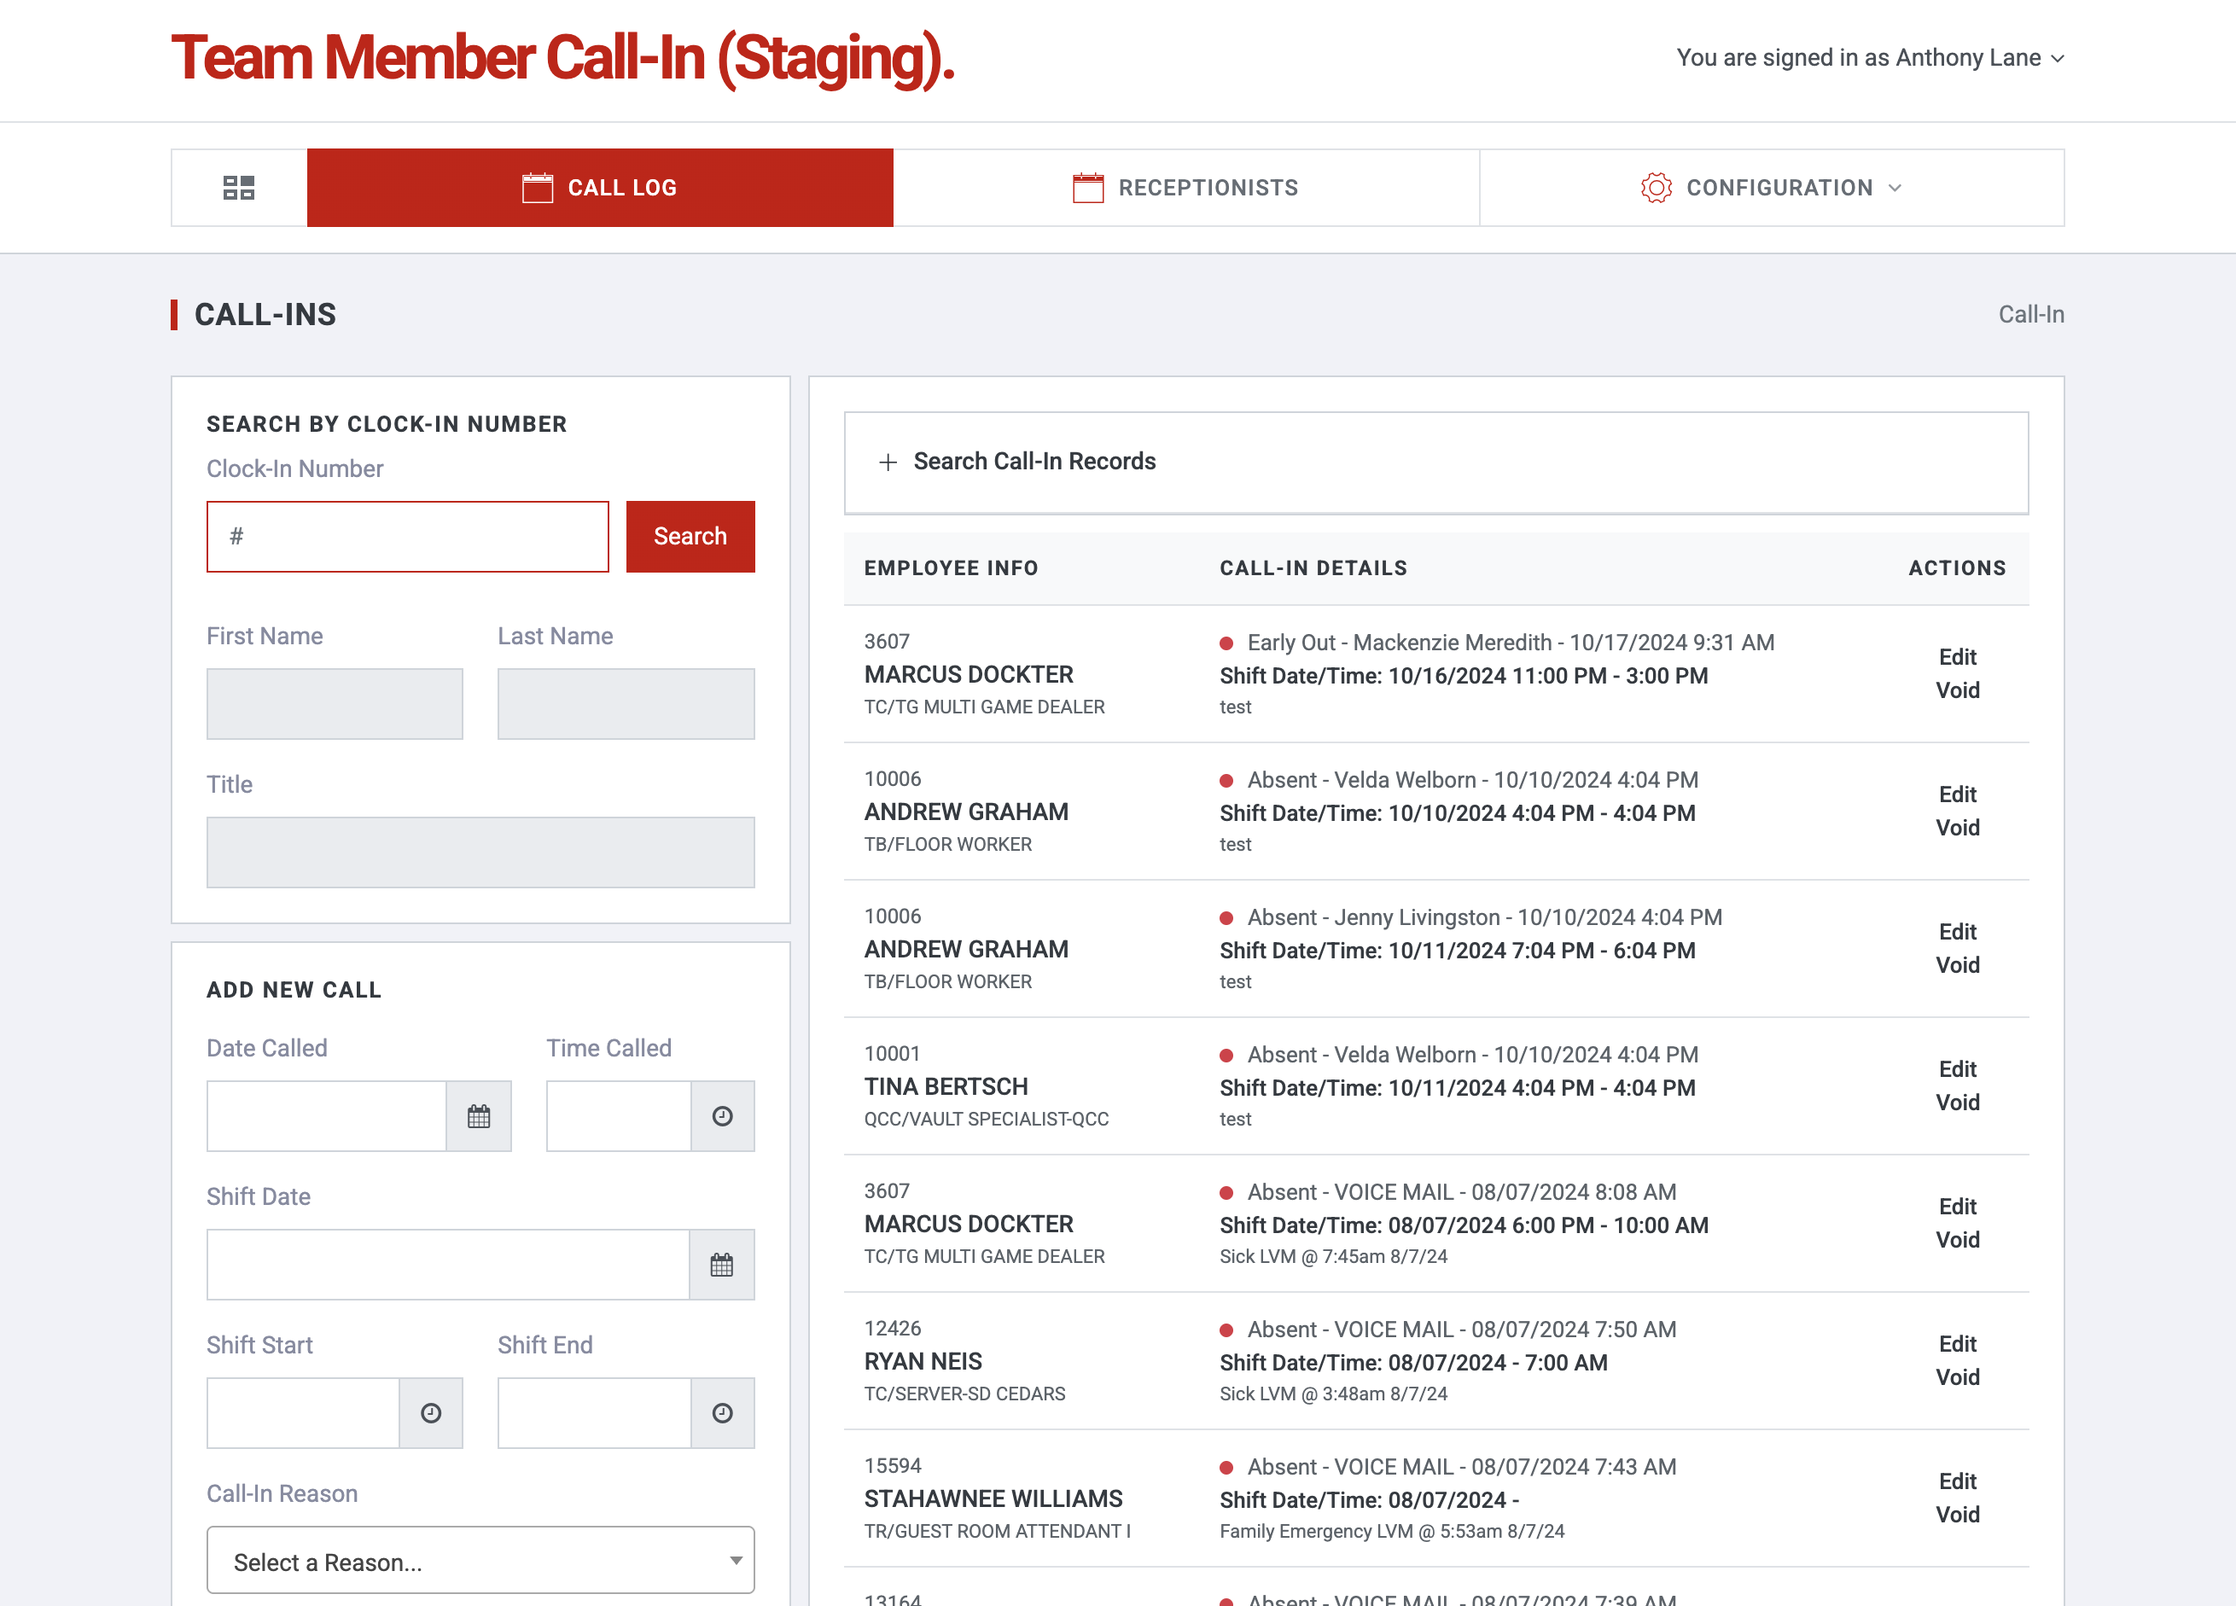
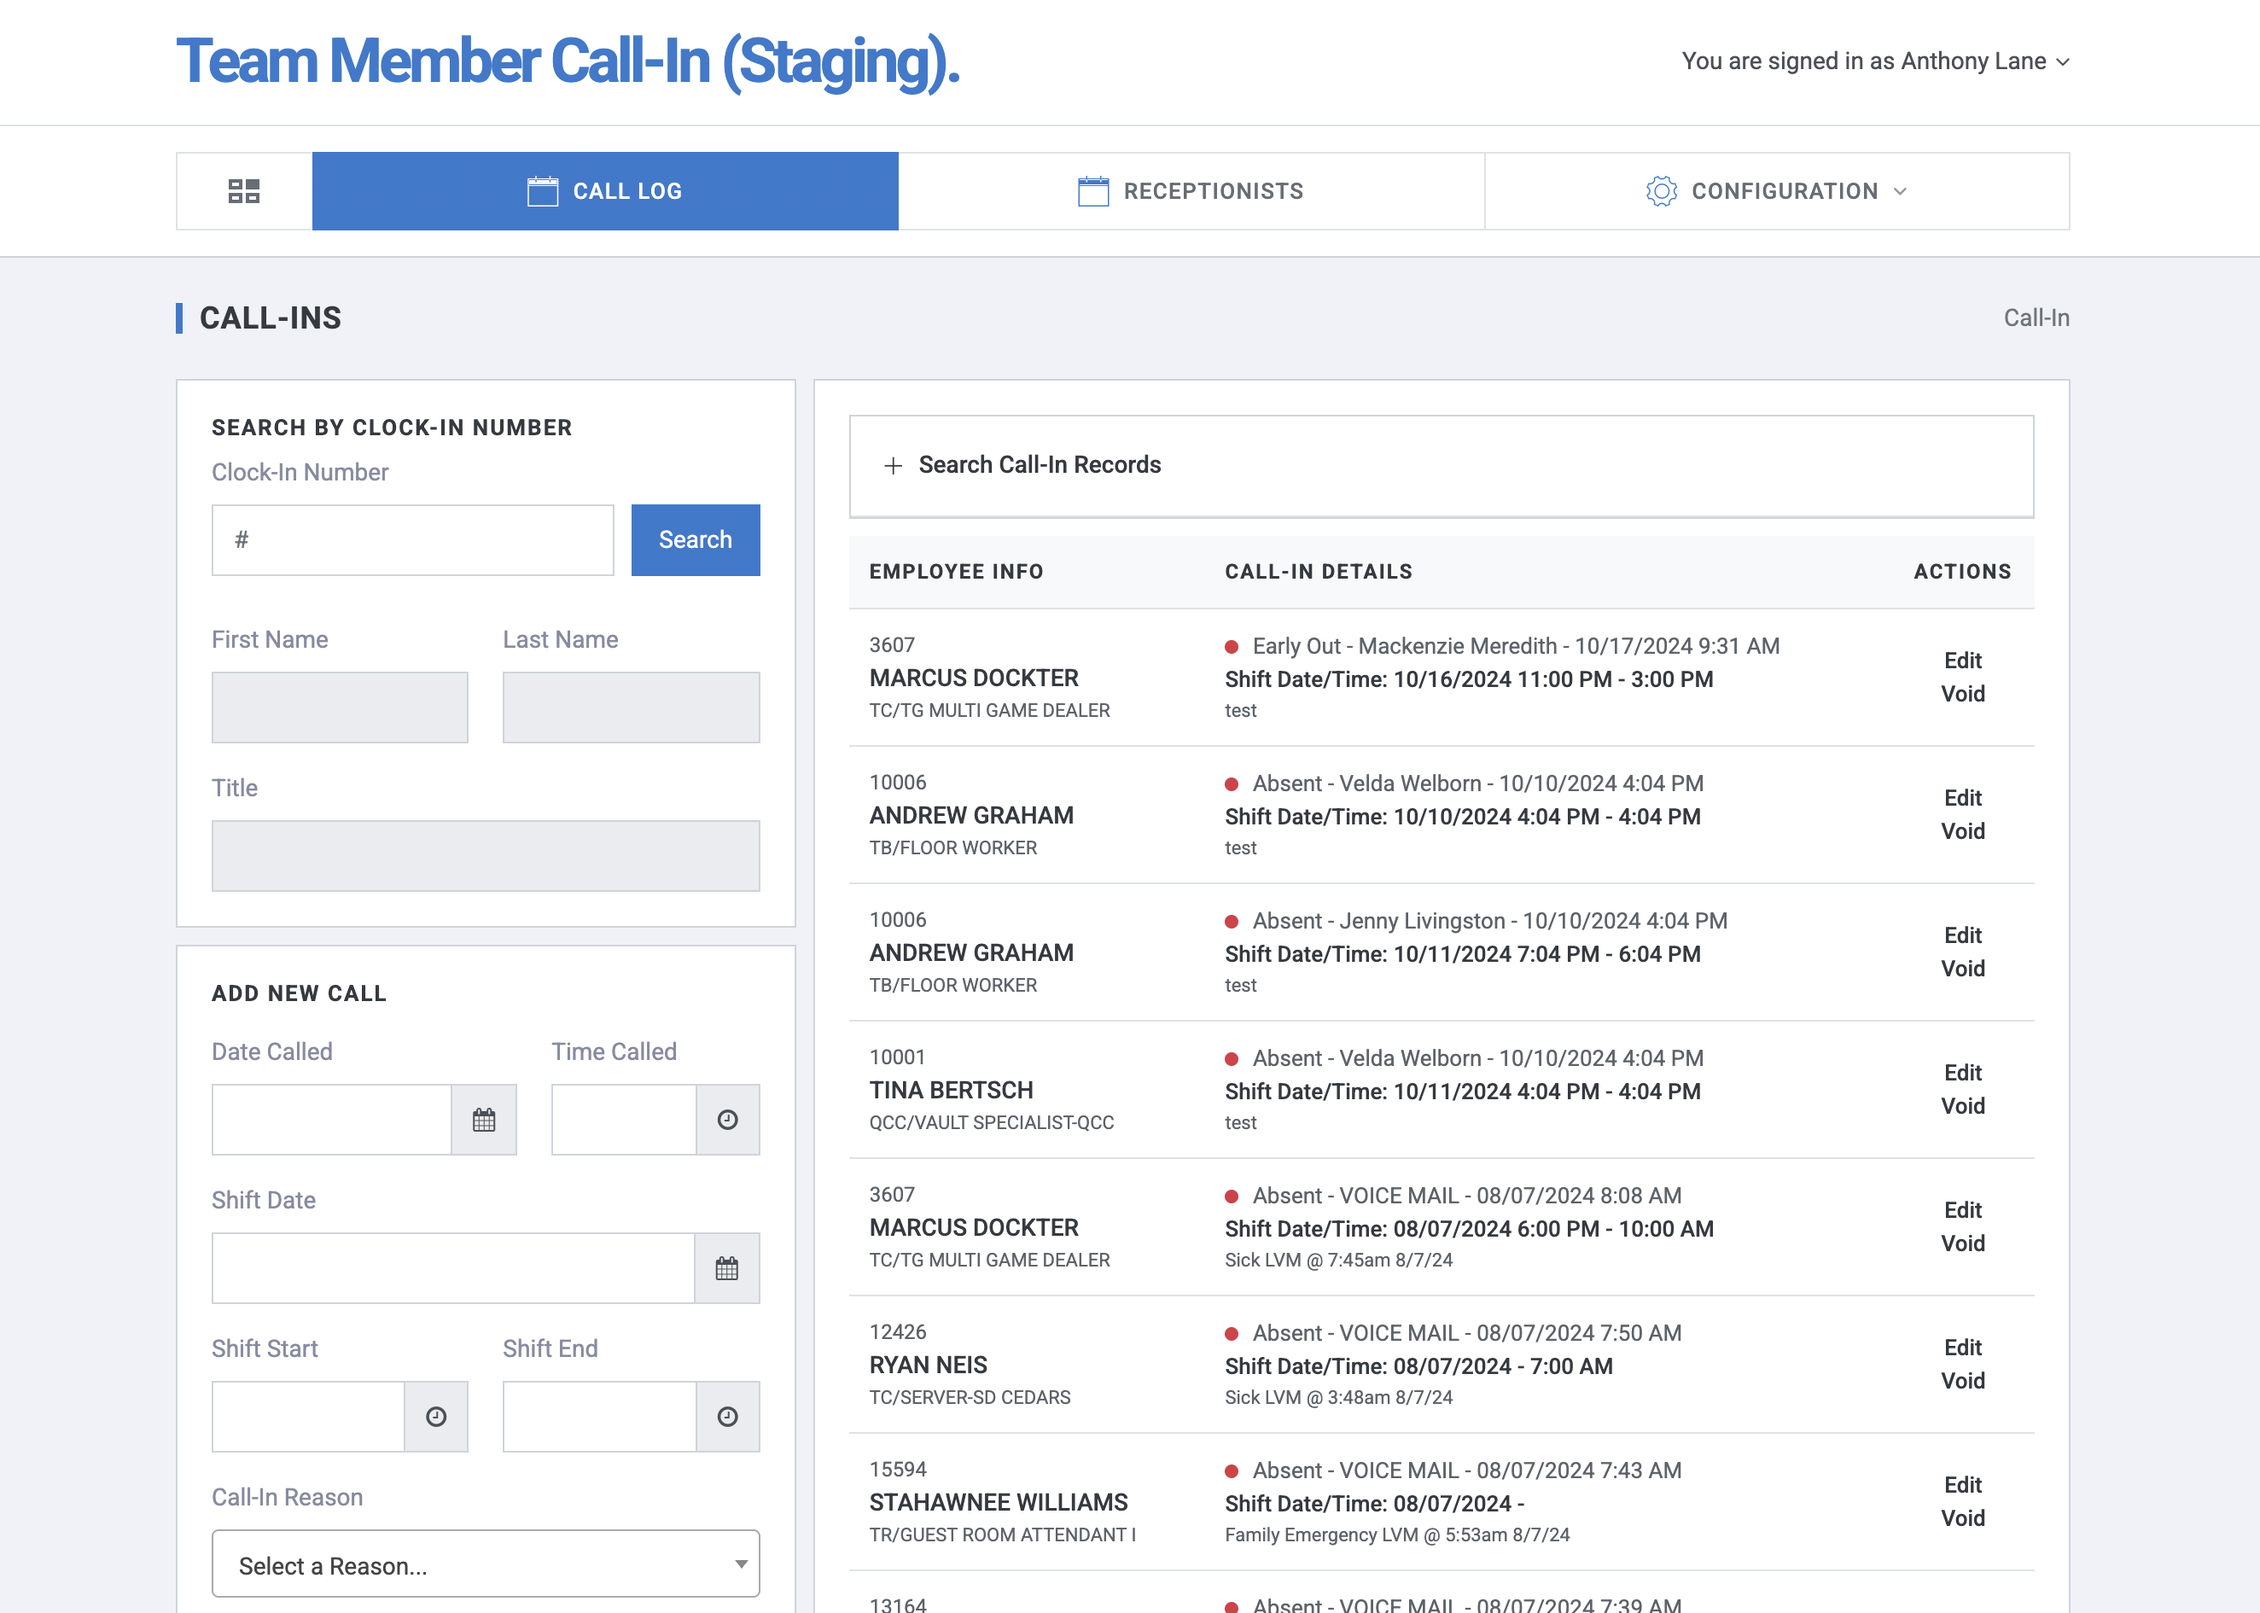
update: new reception app screenshot + match modal header to blue theme

diff --git a/demo.html b/demo.html
@@ -651,7 +651,7 @@
     <div id="receptionModal" style="display:none; position:fixed; top:0; left:0; width:100%; height:100%; background:rgba(0,0,0,0.85); z-index:10000; justify-content:center; align-items:center; padding:20px; box-sizing:border-box;" onclick="if(event.target===this)closeReceptionModal()">
         <div class="modal-content" style="position:relative; max-width:95vw; max-height:95vh; background:#fff; border-radius:12px; overflow:hidden; box-shadow:0 25px 80px rgba(0,0,0,0.5);">
             <button onclick="closeReceptionModal()" style="position:absolute; top:10px; right:10px; width:36px; height:36px; border:none; background:rgba(0,0,0,0.7); color:white; border-radius:50%; cursor:pointer; font-size:20px; line-height:1; z-index:10001;">&times;</button>
-            <div style="padding:15px 20px; background:linear-gradient(135deg, #dc3545 0%, #a71d2a 100%); color:white;">
+            <div style="padding:15px 20px; background:linear-gradient(135deg, #3b82f6 0%, #2563eb 100%); color:white;">
                 <h3 style="margin:0; font-size:18px; font-weight:600;">Current Reception App</h3>
                 <p style="margin:5px 0 0; font-size:13px; opacity:0.9;">Team Member Call-In (Staging)</p>
             </div>
